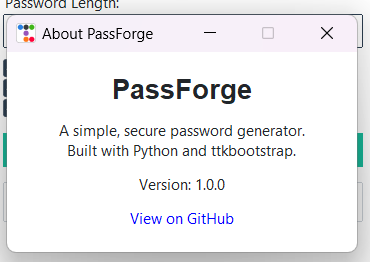
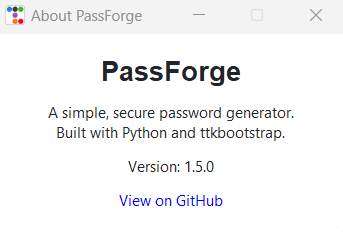
Shows user how many passwords are created plus other fixes

diff --git a/main.py b/main.py
@@ -59,6 +59,9 @@ class PasswordGeneratorApp:
         self.strength_label = ttk.Label(frame, text="", font=('Helvetica', 12, 'bold'))
         self.strength_label.pack(pady=(0, 10))
 
+        self.passwords_created_label = ttk.Label(frame, text="", font=('Helvetica', 10))
+        self.passwords_created_label.pack(pady=(0, 10))
+
         # Copy Button
         self.copy_button = ttk.Button(frame, text="Copy to Clipboard", bootstyle=INFO, command=self.copy_to_clipboard)
         self.copy_button.pack(fill=X, pady=(0, 10))
@@ -105,6 +108,15 @@ class PasswordGeneratorApp:
         y = (screen_height // 2) - (height // 2)
         self.root.geometry(f"{width}x{height}+{x}+{y}")
 
+    def center_child_window(self, window, width, height):
+        parent_x = self.root.winfo_rootx()
+        parent_y = self.root.winfo_rooty()
+        parent_width = self.root.winfo_width()
+        parent_height = self.root.winfo_height()
+        x = parent_x + (parent_width // 2) - (width // 2)
+        y = parent_y + (parent_height // 2) - (height // 2)
+        window.geometry(f"{width}x{height}+{x}+{y}")
+
     def set_window_icon(self):
         if getattr(sys, 'frozen', False):
             icon_path = os.path.join(sys._MEIPASS, "passforge.ico")
@@ -146,6 +158,10 @@ class PasswordGeneratorApp:
 
         self.password_history.extend(passwords)
         self.update_history_display()
+
+        self.passwords_created_label.config(
+            text=f"✅ {batch_size} Password{'s' if batch_size > 1 else ''} Created!"
+        )
 
     def update_strength_label(self, password):
         length = len(password)
@@ -251,10 +267,12 @@ class PasswordGeneratorApp:
 
         ttk.Label(frame, text="PassForge", font=("Helvetica", 16, "bold")).pack(pady=(0, 10))
         ttk.Label(frame, text="A simple, secure password generator.\nBuilt with Python and ttkbootstrap.", justify="center").pack(pady=(0, 10))
-        ttk.Label(frame, text="Version: 1.2.0", justify="center").pack(pady=(0, 10))
+        ttk.Label(frame, text="Version: 1.5.0", justify="center").pack(pady=(0, 10))
         github_link = ttk.Label(frame, text="View on GitHub", foreground="blue", cursor="hand2")
         github_link.pack()
         github_link.bind("<Button-1>", lambda e: self.open_github())
+
+        self.center_child_window(about_window, 350, 200)
 
     def open_github(self):
         import webbrowser

diff --git a/readme.md b/readme.md
@@ -23,6 +23,11 @@ A clean, lightweight, and secure **password generator** built with Python and tt
 - 📈 **Maximum Length Handling**  
   Warnings shown if you try to create passwords longer than 128 characters.
 
+- 💾 **Save & Load Password Lists**
+
+  - Export passwords (Base64-encoded for lightweight encryption)
+  - Load previously saved lists back into the app instantly
+
 - 🖥 **Polished Modern Interface**  
   Built using [ttkbootstrap](https://ttkbootstrap.readthedocs.io/) for a clean and responsive UI.
 
@@ -57,4 +62,12 @@ A clean, lightweight, and secure **password generator** built with Python and tt
    ```bash
    git clone https://github.com/jimmysnetwork/PassForge.git
    cd PassForge
+   ```
+2. Install the requirements:
+   ```
+   pip install -r requirements.txt
+   ```
+3. Run the app:
+   ```
+   python main.py
    ```
